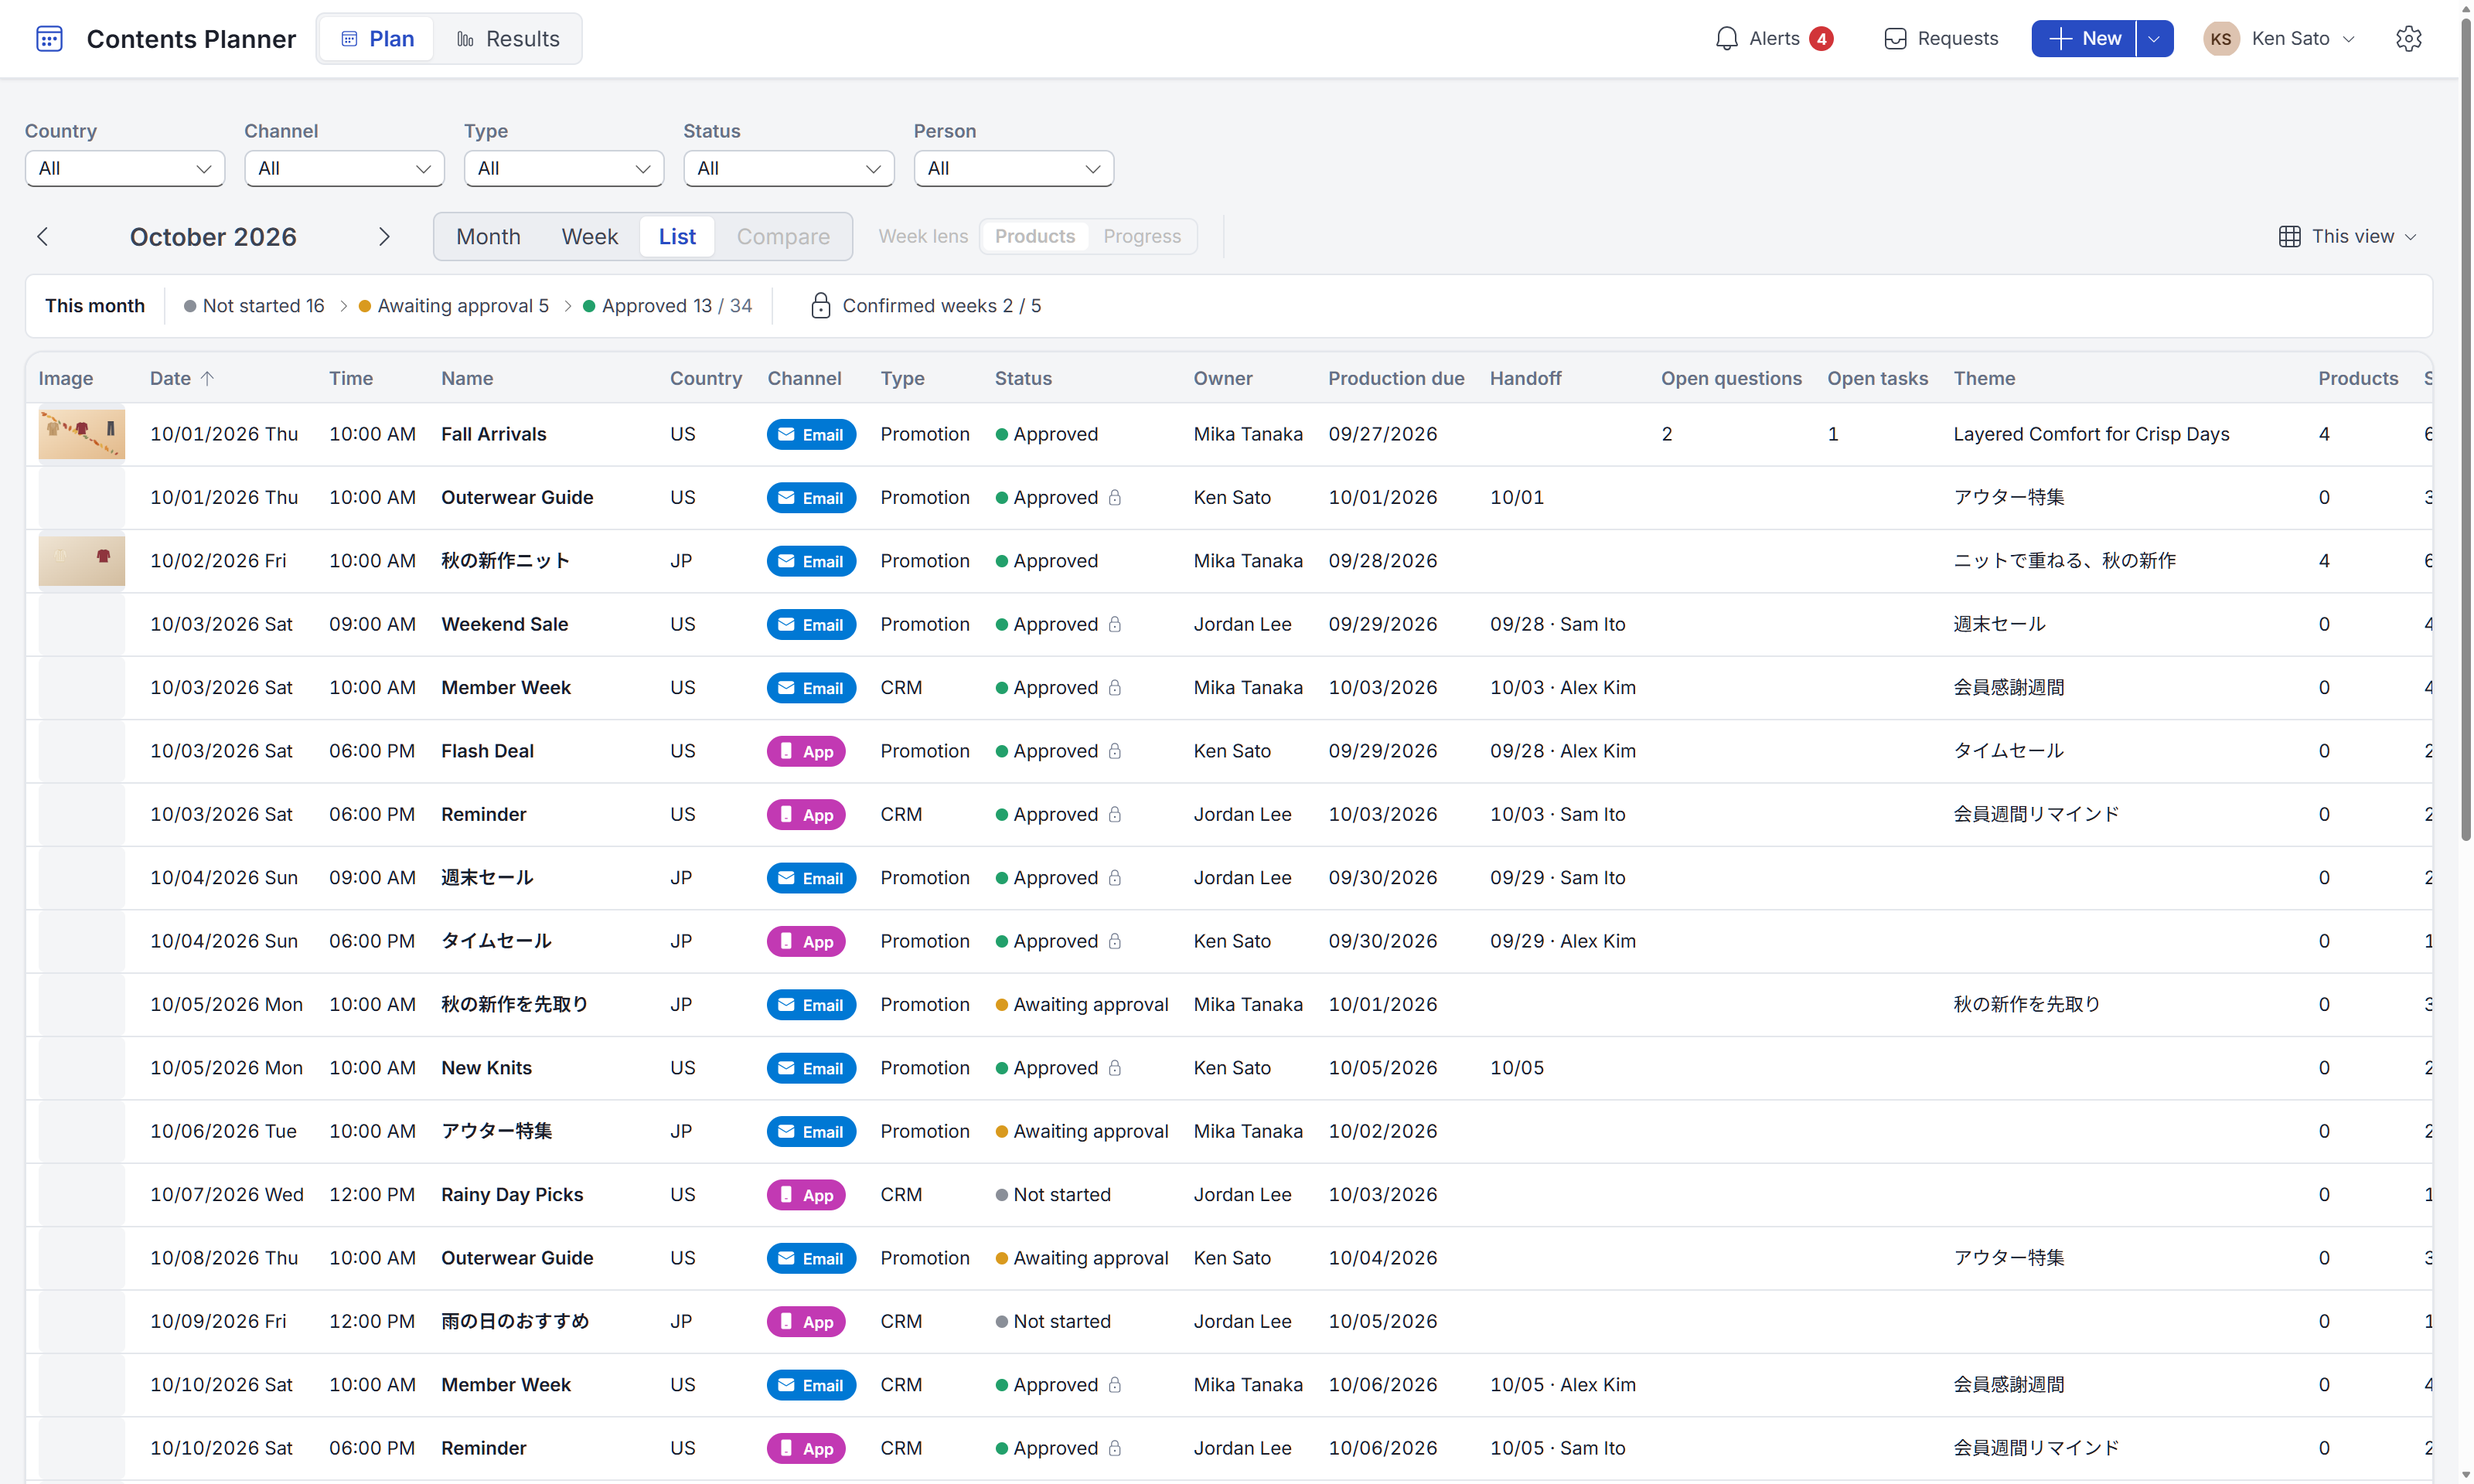
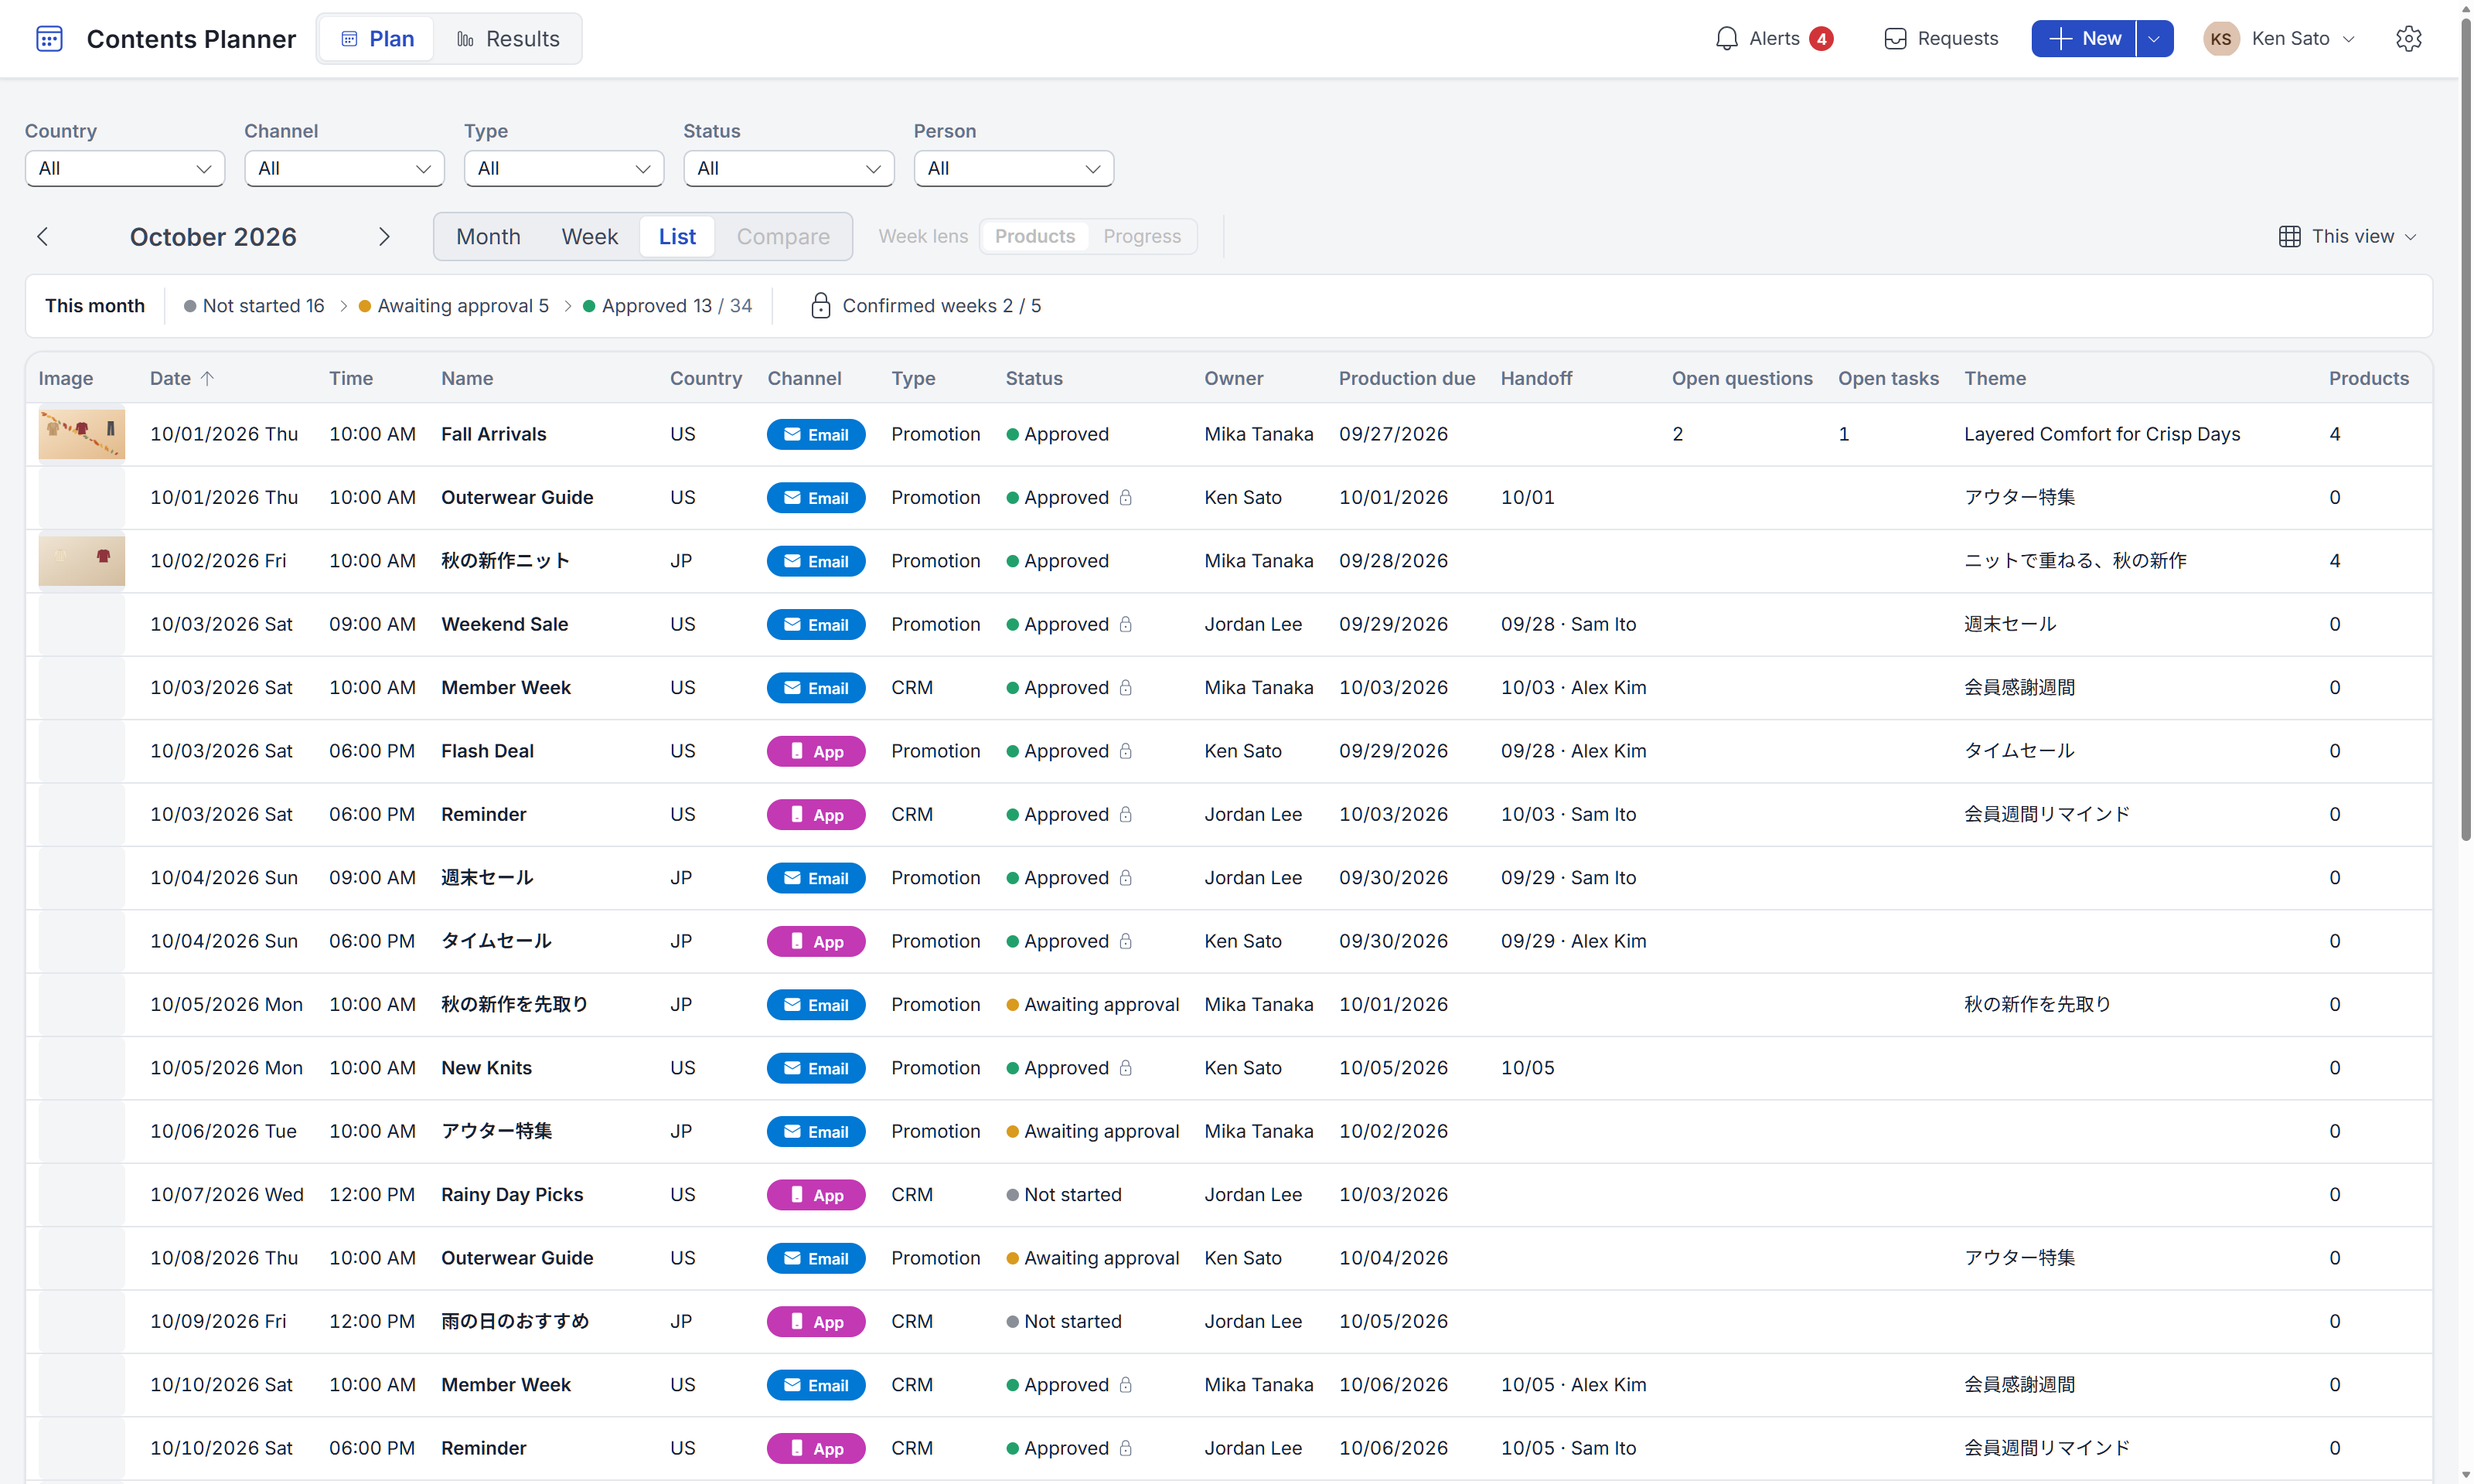
fix: チャネルの札の幅を、メールとアプリでそろえる(一覧で端がそろうように)

diff --git a/src/ChannelBadge.tsx b/src/ChannelBadge.tsx
@@ -15,10 +15,11 @@ const useStyles = makeStyles({
     color: '#ffffff',
   },
   // 配信カードの題名の左
-  card: { columnGap: '6px', height: '30px', padding: '0 12px 0 10px', fontSize: tokens.fontSizeBase300 },
+  // 幅はメールとアプリでそろえる(並んだときに、札の端がそろうように)。中身は真ん中に
+  card: { columnGap: '6px', height: '30px', minWidth: '92px', justifyContent: 'center', padding: '0 12px 0 10px', boxSizing: 'border-box', fontSize: tokens.fontSizeBase300 },
   cardIcon: { fontSize: '20px' },
   // 一覧の列・週の配信の箱など
-  small: { columnGap: '4px', height: '20px', padding: '0 8px 0 6px', fontSize: tokens.fontSizeBase100 },
+  small: { columnGap: '4px', height: '20px', minWidth: '64px', justifyContent: 'center', padding: '0 8px 0 6px', boxSizing: 'border-box', fontSize: tokens.fontSizeBase100 },
   smallIcon: { fontSize: '13px' },
   // 月の配信の箱の、名前の前(文字なし。幅が狭いため)
   icon: { justifyContent: 'center', width: '16px', height: '16px', borderRadius: tokens.borderRadiusSmall, verticalAlign: '-3px', marginRight: '4px' },
